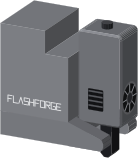
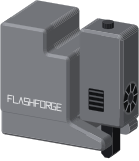
feat(art): tubes reach each head's fitting, and the Creator 5 loses its sharp edges

diff --git a/scripts/unit_art/heads/flashforge_creator5.py b/scripts/unit_art/heads/flashforge_creator5.py
@@ -19,8 +19,10 @@ BLOCK_OUTLINE = [
 TIP = (0.365, NOZZLE_Y, -0.08)
 CHANNEL_END = [(0.43, 0.108), (0.455, 0.12), (0.465, 0.145), (0.465, 0.185), (0.45, 0.215)]
 CHANNEL_OUTLINE = [(BLOCK_RIGHT, BLOCK_BOTTOM), (BLOCK_RIGHT, 0.108)] + CHANNEL_END
-BLOCK_FOOT_OUTLINE = [(BLOCK_LEFT, BLOCK_BOTTOM), (BLOCK_LEFT, 0.108)] + CHANNEL_END + [(BLOCK_RIGHT, BLOCK_BOTTOM)]
+
 CHANNEL_WIDTH = 0.16
+EDGE_ROUND, FRONT_BEVEL = 0.035, 0.024
+FRONT_OUTLINE = [(BLOCK_LEFT, 0.108)] + CHANNEL_END + [(BLOCK_RIGHT, BLOCK_BOTTOM)] + BLOCK_OUTLINE[2:]
 
 
 def _tool_fan(d):
@@ -41,7 +43,7 @@ def _tool_fan(d):
 
 
 def _tool(d):
-    d.solid(rounded([(TOOL_LEFT, TOOL_BOTTOM), (TOOL_RIGHT, TOOL_BOTTOM), (TOOL_RIGHT, TOP), (TOOL_LEFT, TOP)], 0.045), TOOL_FRONT, TOOL_BACK, TOOL, bevel=0.016)
+    d.solid(rounded([(TOOL_LEFT, TOOL_BOTTOM), (TOOL_RIGHT, TOOL_BOTTOM), (TOOL_RIGHT, TOP), (TOOL_LEFT, TOP)], 0.045), TOOL_FRONT, TOOL_BACK, TOOL, bevel=FRONT_BEVEL)
     y = TOOL_FRONT - 0.002
     d.face(rounded([(0.23, 0.42), (0.38, 0.42), (0.38, 0.62), (0.23, 0.62)], 0.012), y, DARK, amb=0.9, dif=0.2, spec=0.0)
     if d.detail:
@@ -63,14 +65,14 @@ def draw_art(scene, tier):
     d = Drawing(scene, tier)
     d.solid(CHANNEL_OUTLINE, BLOCK_DEPTH - CHANNEL_WIDTH, BLOCK_DEPTH, DUCT)
     d.solid([(BLOCK_LEFT, 0.108), (BLOCK_RIGHT, 0.108), (BLOCK_RIGHT, BLOCK_BOTTOM), (BLOCK_LEFT, BLOCK_BOTTOM)], CHANNEL_WIDTH, BLOCK_DEPTH, DUCT)
-    d.solid(BLOCK_FOOT_OUTLINE, 0.0, CHANNEL_WIDTH, DUCT)
-    d.solid(BLOCK_OUTLINE, 0.0, BLOCK_DEPTH, BLOCK)
-    if d.detail:
-        wordmark(d, "FLASHFORGE", -0.22, 0.43, 0.042, 0.062, 0.012, "#e4e5e7", 0.008)
+    d.solid(rounded(BLOCK_OUTLINE, EDGE_ROUND), 0.0, BLOCK_DEPTH, BLOCK)
     _hotend(d)
     _tool(d)
-    # The near channel passes in front of the tool and hotend, continuing the foot it was drawn with.
-    d.solid(CHANNEL_OUTLINE, 0.0, CHANNEL_WIDTH, DUCT)
+    # The front slab runs from the block into the near channel, in front of the tool and hotend.
+    d.solid(rounded(FRONT_OUTLINE, EDGE_ROUND), 0.0, CHANNEL_WIDTH, BLOCK, bevel=FRONT_BEVEL)
+    d.scene.line([(BLOCK_LEFT + 0.03, -0.001, BLOCK_BOTTOM), (BLOCK_RIGHT - 0.02, -0.001, BLOCK_BOTTOM)], "#66686d", 0.005)
+    if d.detail:
+        wordmark(d, "FLASHFORGE", -0.22, 0.43, 0.042, 0.062, 0.012, "#e4e5e7", 0.008)
 
 
 HEAD = HeadDef("flashforge_creator5", "FLASHFORGE_CREATOR5", draw_art, TIP, entry=(0.34, NOZZLE_Y, TOP + 0.05), size=0.85)

diff --git a/src/ui/filament/ui_filament_path_topology.cpp b/src/ui/filament/ui_filament_path_topology.cpp
@@ -623,21 +623,23 @@ void render_linear_hub(lv_obj_t* obj, lv_layer_t* layer, FilamentPathData* data)
     plan_linear_hub(f, *data, ctx.geo, plan);
     warn_if_dropped(plan);
 
+    // A hub that feeds no toolhead ends at the hub: nothing below it is drawn.
+    const bool feeds = data->feeds_toolhead;
+    // The tube is painted over the head, so it stays visible across the top surface to the inlet.
+    if (feeds)
+        draw_nozzle_glyph(ctx, f);
+
     const TubePalette pal = tube_palette(*data);
     paint_tubes(layer, plan, pal);
     draw_offpage_stubs(ctx, f);
 
     draw_hub_section(ctx, f);
-    // A hub that feeds no toolhead ends at the hub: nothing below it is drawn.
-    const bool feeds = data->feeds_toolhead;
     if (feeds && f.has_buffer)
         draw_buffer_section(ctx, f, plan);
     // Bands on the hub/selector edges clamp the tube where it enters the box.
     paint_box_bands(layer, plan, pal);
     if (feeds && data->show_bypass)
         record_bypass_hit(ctx, f);
-    if (feeds)
-        draw_nozzle_glyph(ctx, f);
 
     data->path_cache.path = (plan.active_route >= 0) ? filled_prefix(plan.routes[plan.active_route])
                                                      : pg::FilamentPath{};

diff --git a/tests/unit/test_toolhead_art.cpp b/tests/unit/test_toolhead_art.cpp
@@ -103,15 +103,13 @@ TEST_CASE("toolhead art: the frame puts the nozzle tip on the filament column", 
     CHECK(r.w == Catch::Approx(80 * art->aspect).margin(1));
     CHECK(100 - r.x == Catch::Approx(r.w * art->tip_x).margin(1));
 
-    const ToolheadArtPoint entry = toolhead_art_entry(*art, 100, 50, 10);
-    CHECK(entry.x == Catch::Approx(r.x + r.w * art->entry_x).margin(1));
-    CHECK(entry.y == Catch::Approx(r.y + r.h * art->entry_y).margin(1));
-
+    CHECK(toolhead_art_entry(*art, 100, 50, 10).x ==
+          Catch::Approx(r.x + r.w * art->entry_x).margin(1));
+    CHECK(toolhead_art_entry(*art, 100, 50, 10).y ==
+          Catch::Approx(r.y + r.h * art->entry_y).margin(1));
     const GlyphBounds g = toolhead_bounds(ToolheadStyle::ENDER3, 100, 50, 10);
-    CHECK(g.left == r.x);
-    CHECK(g.top == r.y);
-    CHECK(g.right == r.x + r.w - 1);
-    CHECK(g.bottom == r.y + r.h - 1);
+    CHECK((g.left == r.x && g.top == r.y));
+    CHECK((g.right == r.x + r.w - 1 && g.bottom == r.y + r.h - 1));
 }
 
 TEST_CASE_METHOD(LVGLTestFixture, "toolhead art: redraws reuse one composed image",

diff --git a/src/rendering/toolhead_art_gen.cpp b/src/rendering/toolhead_art_gen.cpp
@@ -20,7 +20,7 @@ const ToolheadArt kToolheadArt[] = {
     {ToolheadStyle::XOL, "xol", 0.6039f, 0.3694f, 0.9342f, 0.9338f, 0.3838f, 0.0424f},
     {ToolheadStyle::SNAPMAKER_U1, "snapmaker_u1", 0.6515f, 0.4456f, 0.9394f, 0.9561f, 0.4950f, 0.0640f},
     {ToolheadStyle::FLASHFORGE_AD5, "flashforge_ad5", 0.6127f, 0.3908f, 0.9910f, 0.9366f, 0.5316f, 0.0489f},
-    {ToolheadStyle::FLASHFORGE_CREATOR5, "flashforge_creator5", 0.8650f, 0.7962f, 0.9953f, 1.0230f, 0.7780f, 0.1389f},
+    {ToolheadStyle::FLASHFORGE_CREATOR5, "flashforge_creator5", 0.8679f, 0.7962f, 0.9952f, 1.0195f, 0.7780f, 0.1360f},
     {ToolheadStyle::ELEGOO_CENTAURI, "elegoo_centauri", 0.6866f, 0.3608f, 0.9837f, 0.9622f, 0.5704f, 0.0420f},
     {ToolheadStyle::ARTILLERY_M1, "artillery_m1", 0.7136f, 0.3440f, 0.9846f, 1.0335f, 0.4636f, 0.1120f},
     {ToolheadStyle::QIDI, "qidi", 0.5807f, 0.3123f, 0.9860f, 0.9637f, 0.4636f, 0.1172f},
